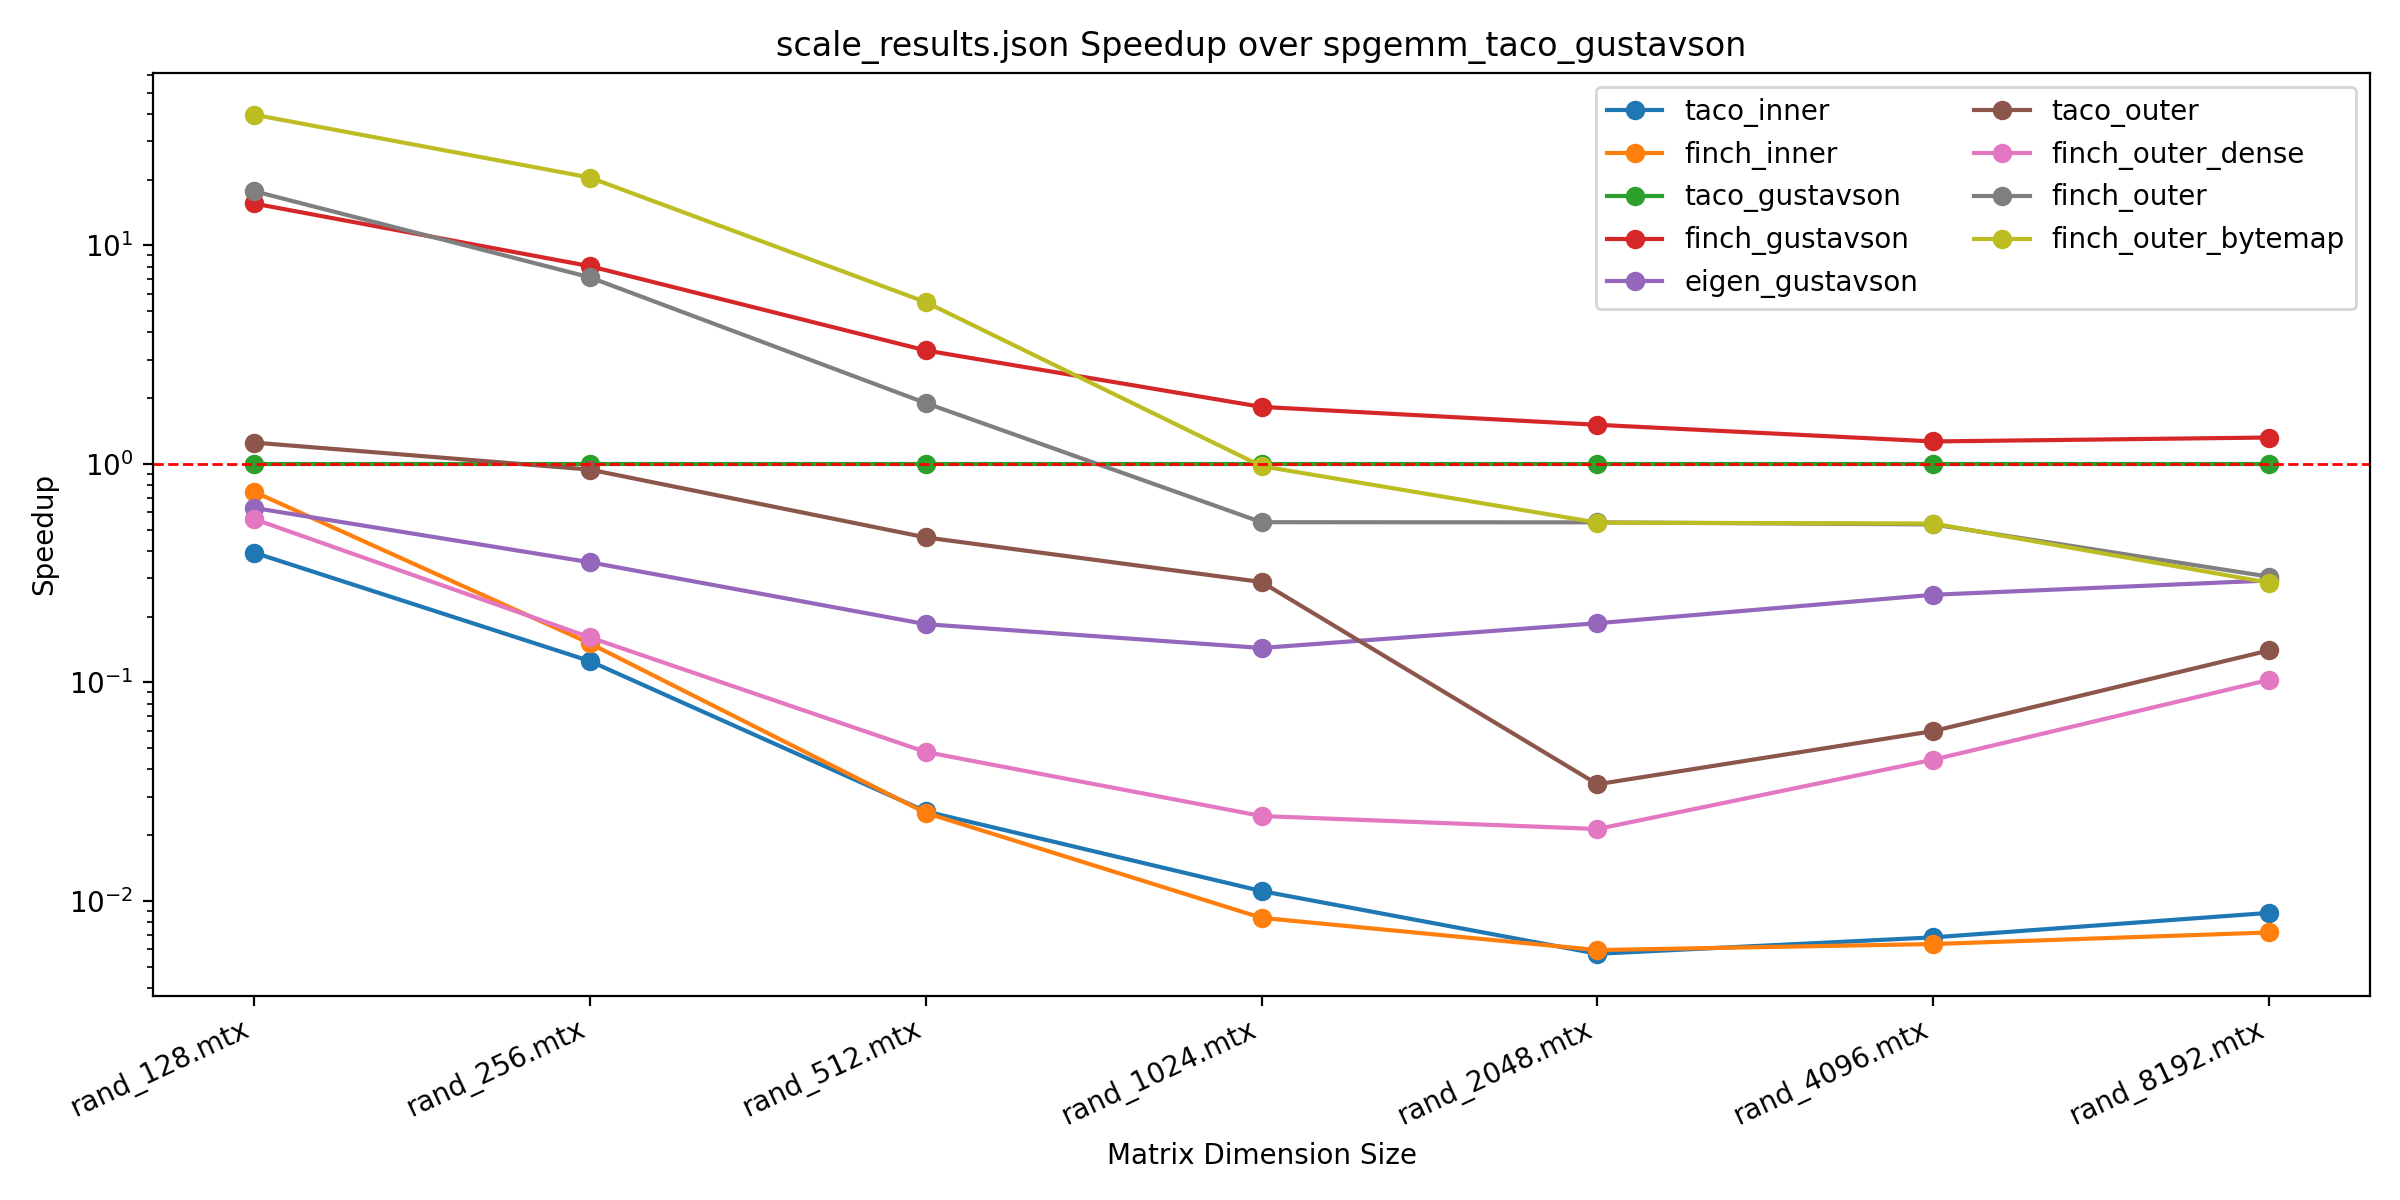
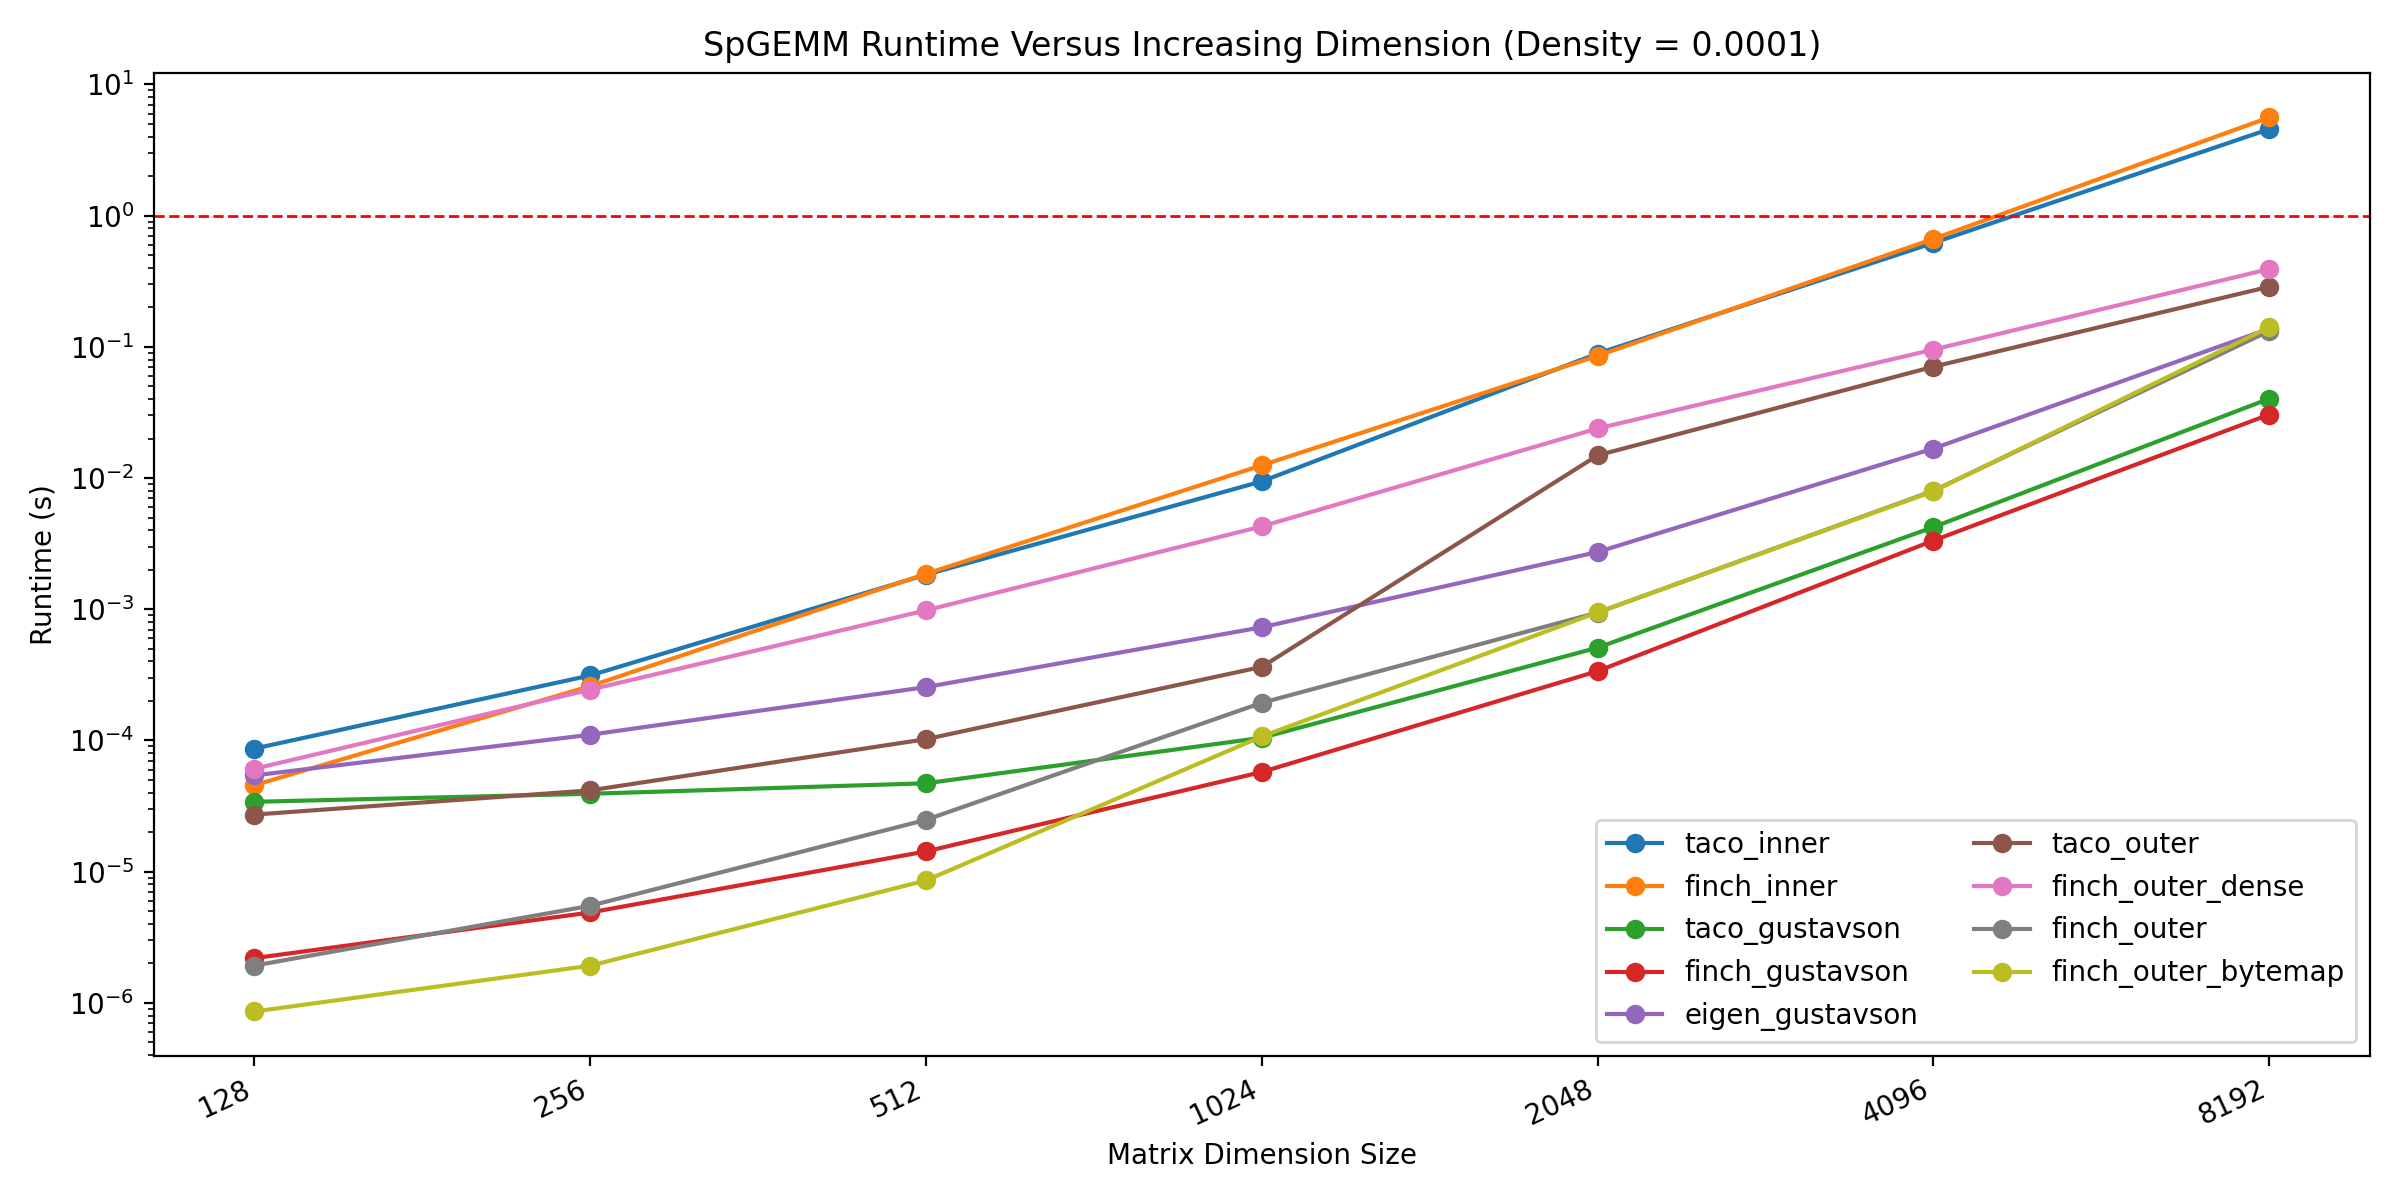
fixed

diff --git a/spgemm/chart_scale.py b/spgemm/chart_scale.py
@@ -32,8 +32,9 @@ def generate_chart_for_operation(path, operation, filename, method_order, matrix
         method = result["method"]
         if mtx in matrix_order and method in method_order:  # Only include specified matrices and methods
             time = result["time"]
-            speedup = baseline_times[mtx] / time if mtx in baseline_times and time else 0
-            data[method][mtx] = speedup
+            data[method][mtx] = time
+            #speedup = baseline_times[mtx] / time if mtx in baseline_times and time else 0
+            #data[method][mtx] = speedup
 
     filtered_method_order = [method for method in method_order if method in data]
     filtered_matrix_order = [mtx for mtx in matrix_order if any(mtx in data[method] for method in method_order)]
@@ -46,10 +47,12 @@ def generate_chart_for_operation(path, operation, filename, method_order, matrix
     print(filtered_matrix_order)
 
     filtered_matrix_order = [mtx.rsplit('/',1)[-1] for mtx in filtered_matrix_order]
+    #Strip everything except the digits from the matrix name
+    filtered_matrix_order = [re.sub(r'\D', '', mtx) for mtx in filtered_matrix_order]
 
-    make_line_plot(filtered_method_order, filtered_matrix_order, ordered_data, filename, title=f"{path} Speedup over {baseline_method}", log_scale=log_scale)
+    make_line_plot(filtered_method_order, filtered_matrix_order, ordered_data, filename, title=f"SpGEMM Runtime Versus Increasing Dimension (Density = 0.0001)", log_scale=log_scale)
 
-def make_line_plot(labels, x_axis, data, filename, title="", y_label="Speedup", log_scale=False):
+def make_line_plot(labels, x_axis, data, filename, title="", y_label="Runtime (s)", log_scale=False):
     x = np.arange(len(x_axis))  # Positions for each matrix
     fig, ax = plt.subplots(figsize=(12, 6))  # Adjust figure size as needed
 
